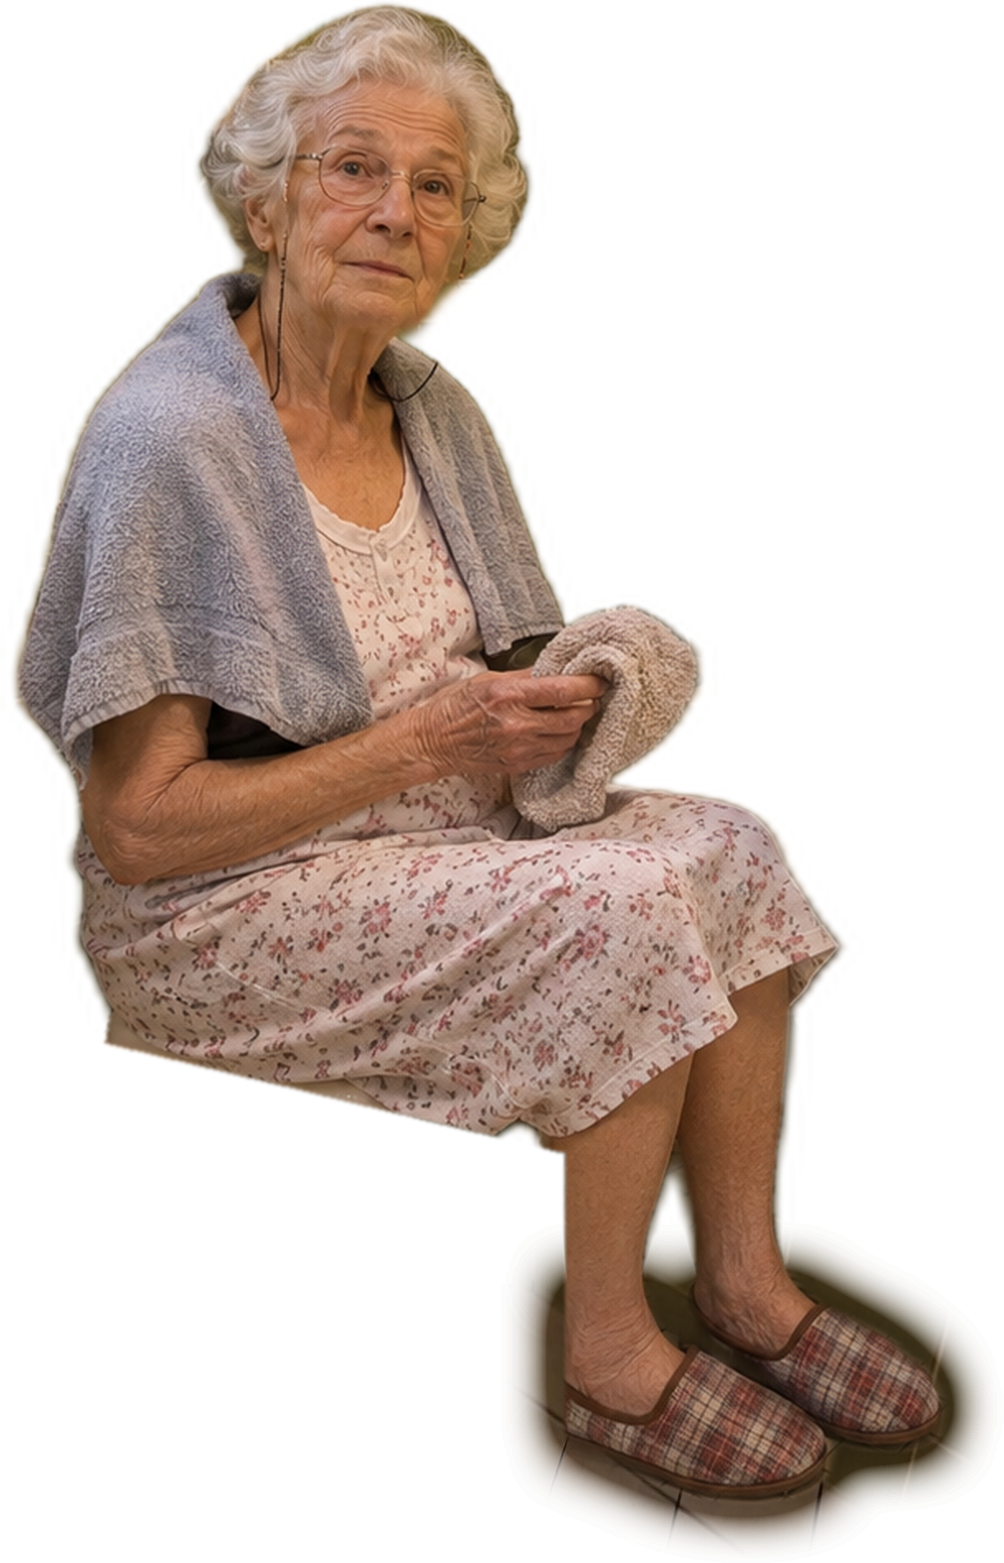
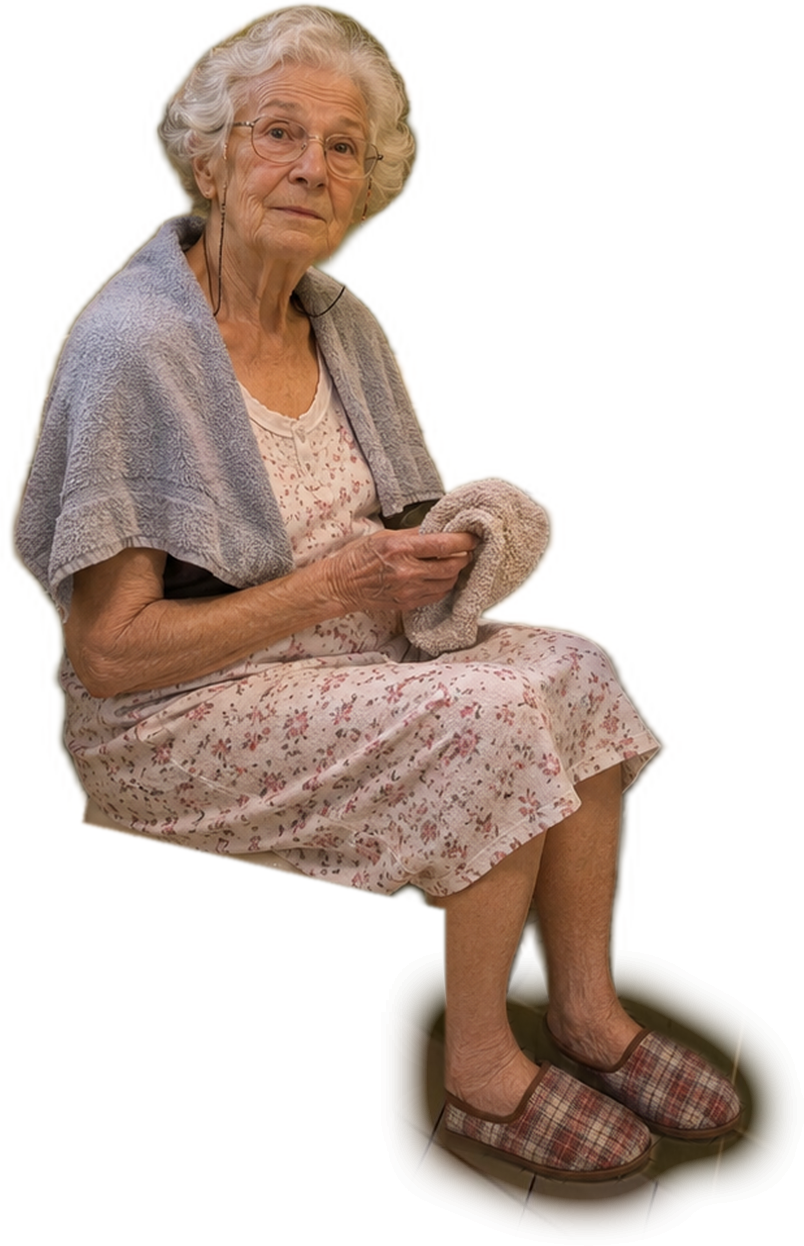
Bad: Frau Engel kleiner, mittig auf dem Hocker
Claude-Session: https://claude.ai/code/session_018xz3hR1CffNQymSRTgJLxV

Changed region(s): [[0.0, 0.0, 0.995, 1.0]]

diff --git a/engel/spiel.html b/engel/spiel.html
@@ -592,7 +592,7 @@ const BAD_DINGE = [
 async function szene7() {
   // Im Bad: Intimsphäre, Kälte, Selbstständigkeit, Notruf
   const bad = await buildRoom('bad');
-  if (!bad.engel) bad.engel = addBild(bad, { u: 0.46, v: 0.6, hfov: 95, aspect: 16 / 9, src: 'figur/engel_bad_sitz.png?v=2', cx: 1054, cy: 617.5, w: 1004, h: 1563 });
+  if (!bad.engel) bad.engel = addBild(bad, { u: 0.46, v: 0.6, hfov: 95, aspect: 16 / 9, src: 'figur/engel_bad_sitz.png?v=3', cx: 1000, cy: 681, w: 804, h: 1246 });
   await goRoom('bad', 0.47, STAND, 0.3); hotspots = BAD_DINGE;
   const strasse = playTon('sfx_strasse', 0.35, true);
   let fensterZu = false, tuerZu = false, warm = false;
